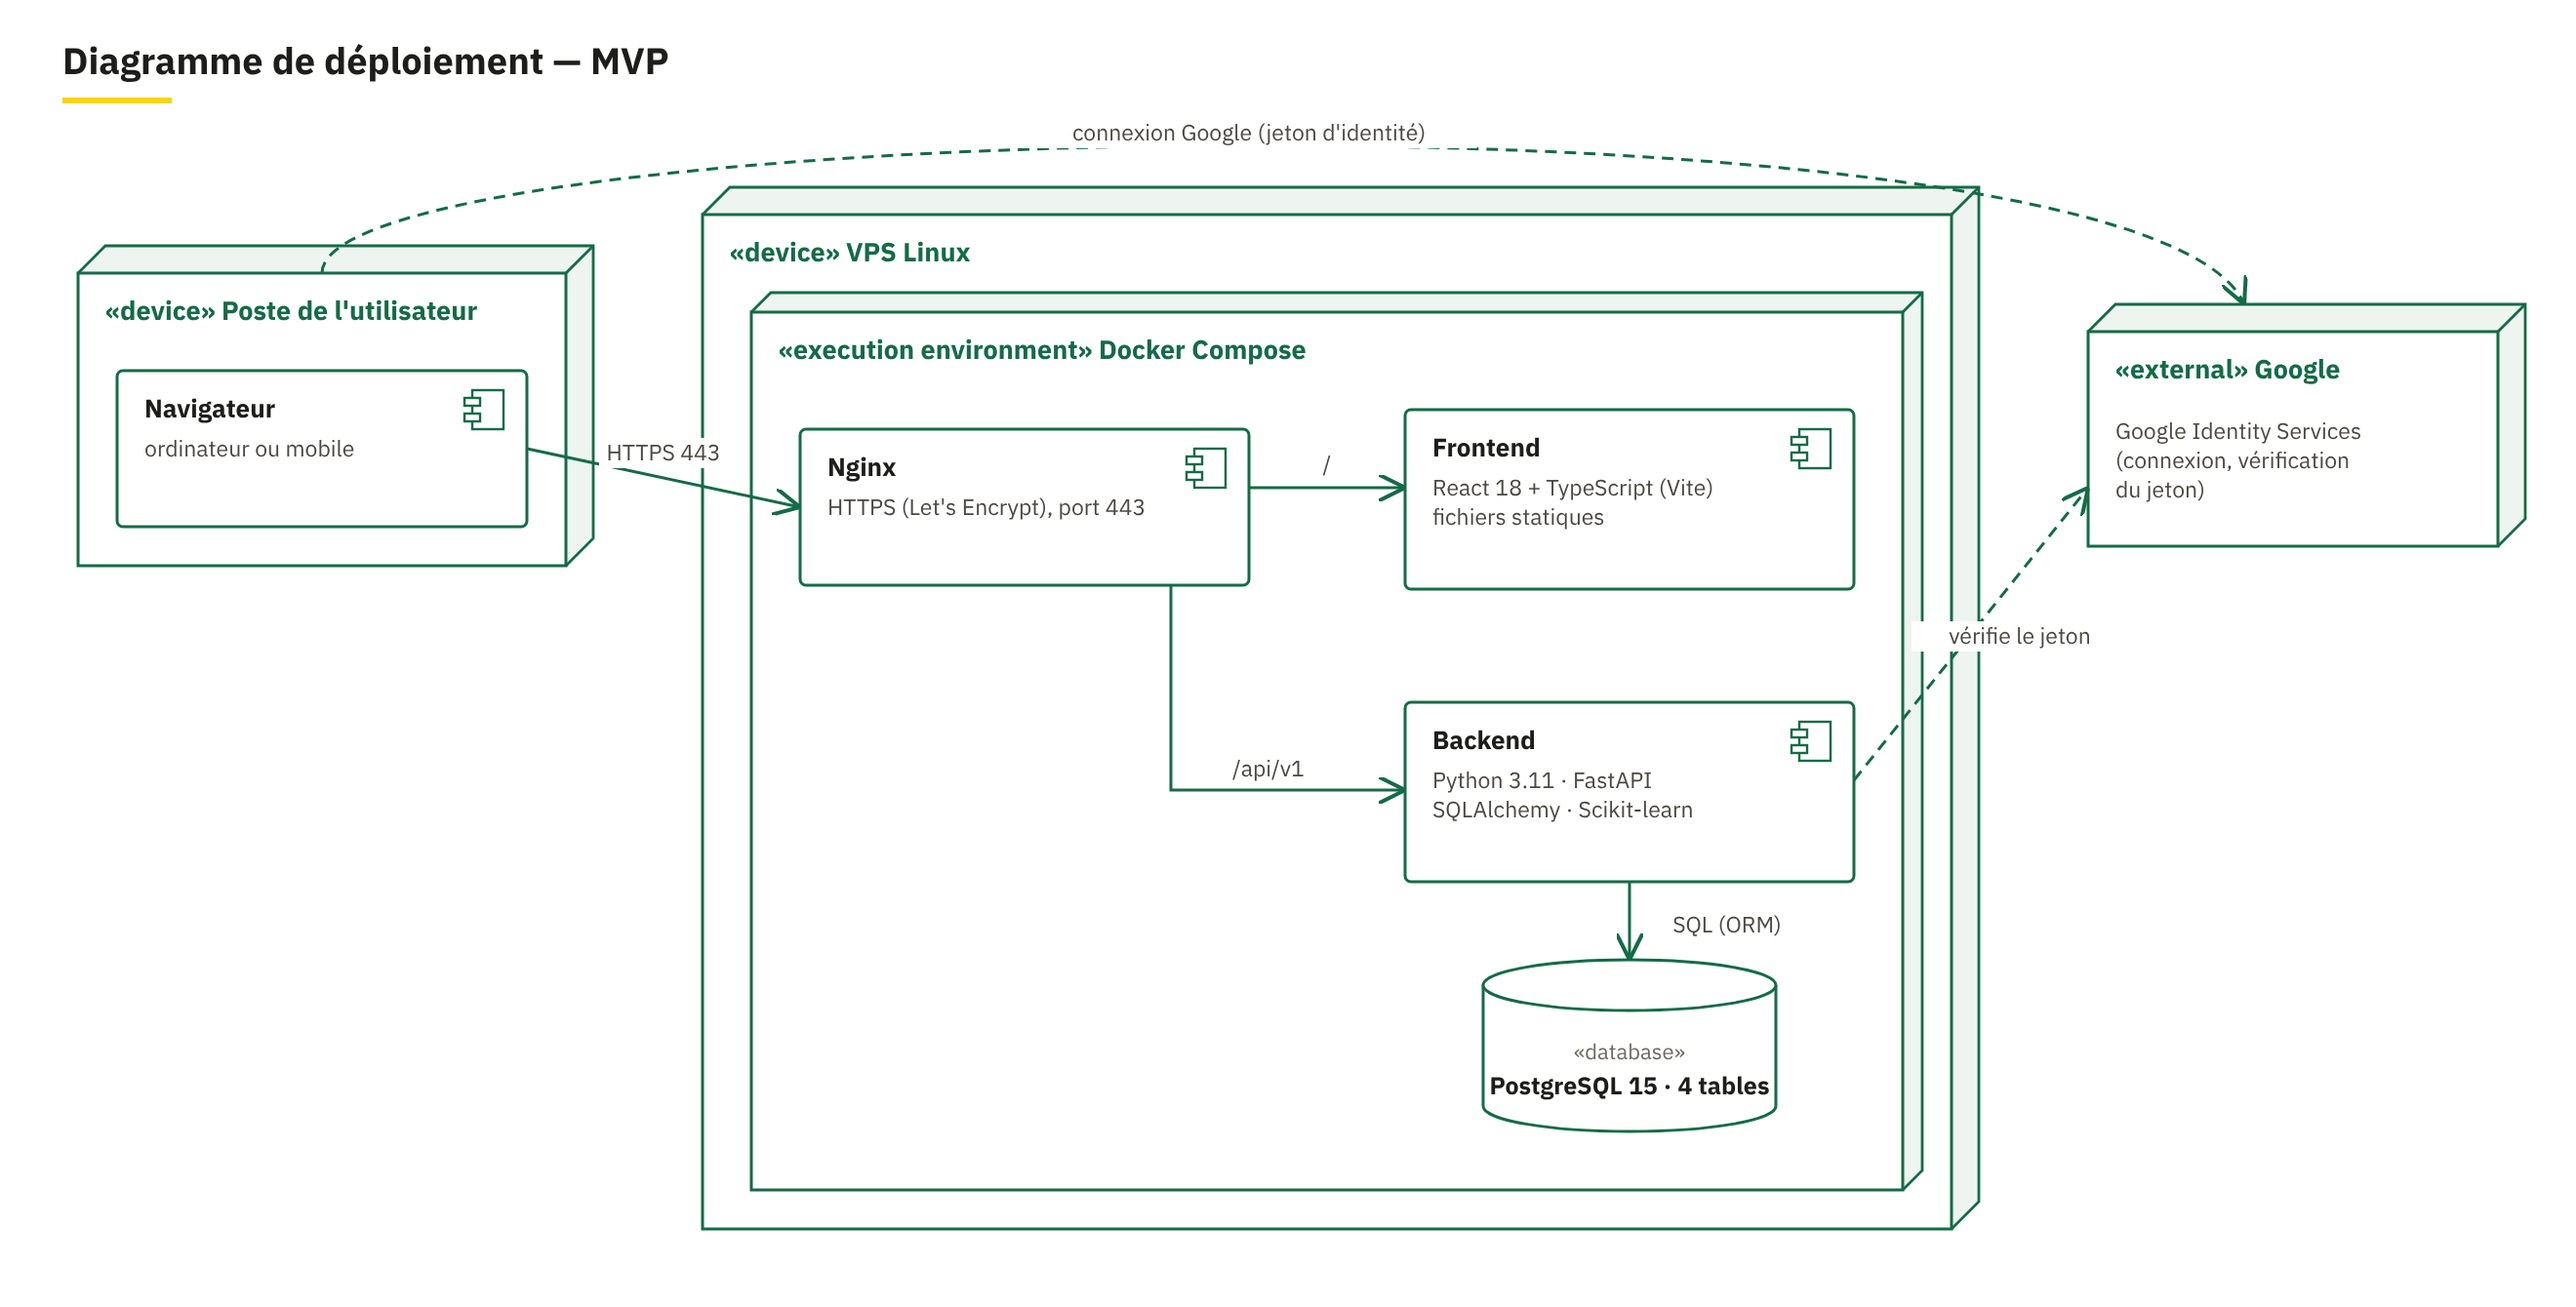
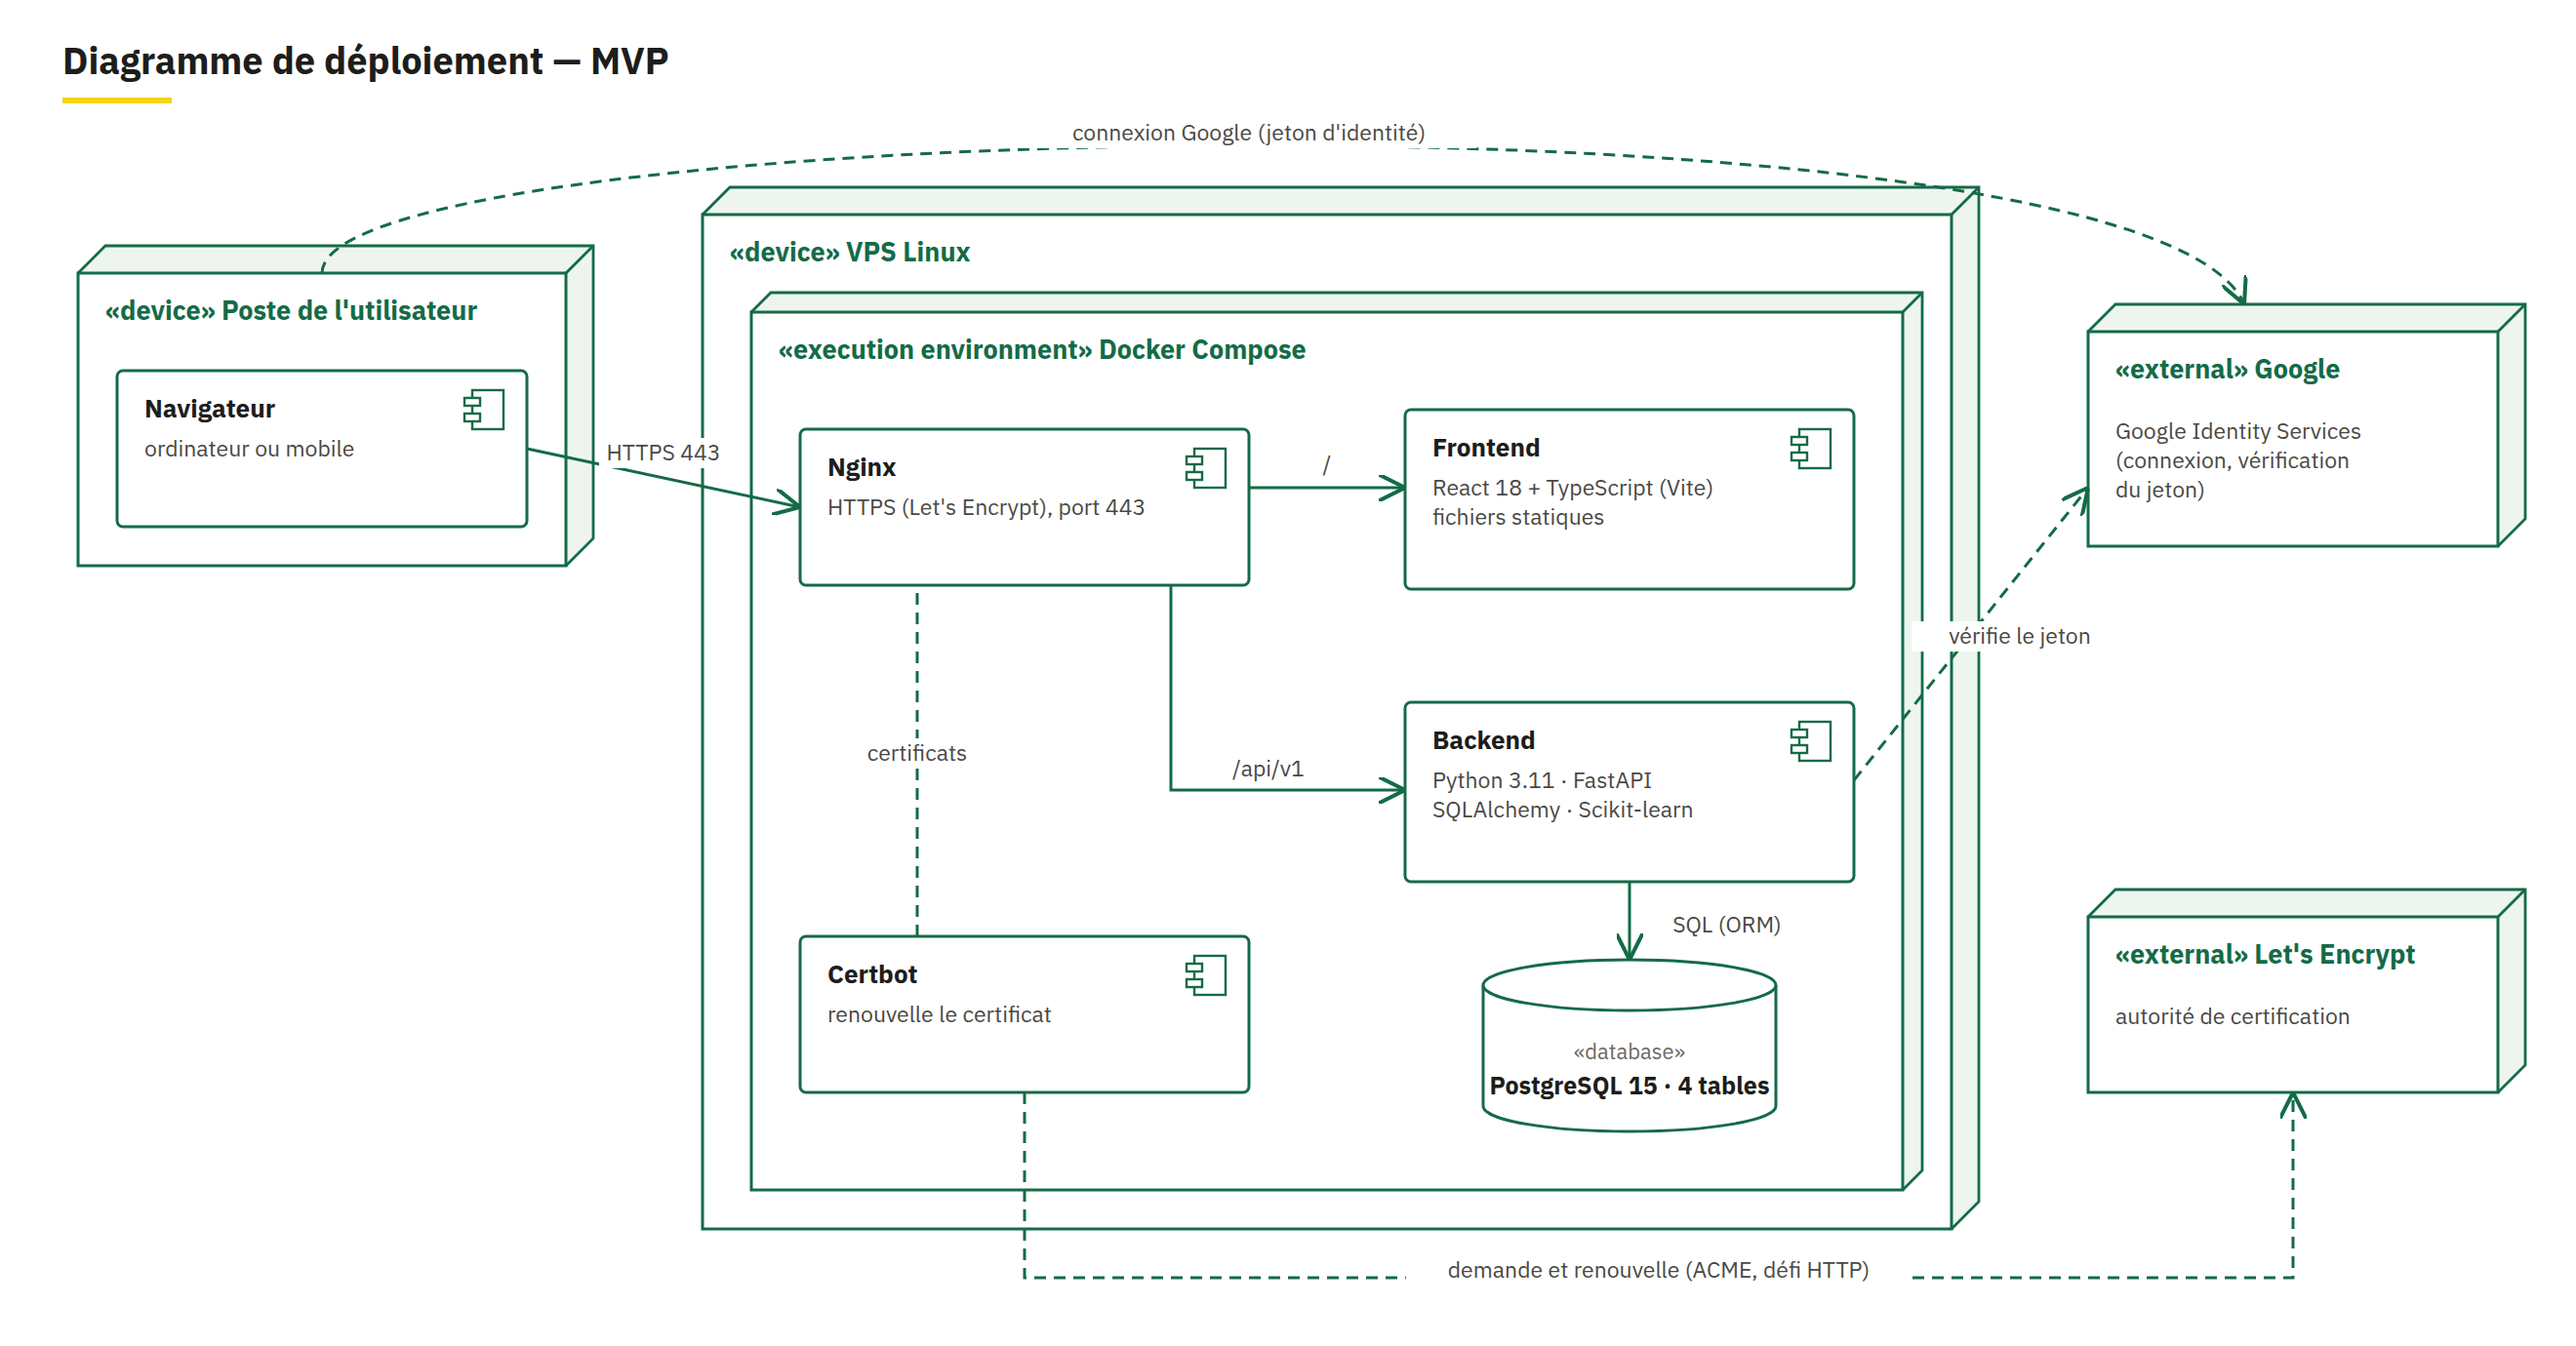
docs(deploiement): procédure de production, répétition locale et diagramme 8 (S7)
docs/deploiement.md : services du profil production, premier certificat,
valeurs de .env, comptes de démo, répétition en local, checklist complétée
(redirection HTTP, comptes de démo, Google). Diagramme de déploiement :
Certbot et Let's Encrypt ajoutés (SVG, PNG, Mermaid, PlantUML).

Refs #27

diff --git a/docs/uml/outils/statiques.py b/docs/uml/outils/statiques.py
@@ -233,6 +233,7 @@ def deploiement():
     b.append(noeud(360, 110, 640, 520, '«device» VPS Linux'))
     b.append(noeud(385, 160, 590, 450, '«execution environment» Docker Compose', 10))
     b.append(composant(410, 220, 230, 80, 'Nginx', 'HTTPS (Let\'s Encrypt), port 443'))
+    b.append(composant(410, 480, 230, 80, 'Certbot', 'renouvelle le certificat'))
     b.append(composant(720, 210, 230, 92, 'Frontend', 'React 18 + TypeScript (Vite)\nfichiers statiques'))
     b.append(composant(720, 360, 230, 92, 'Backend', 'Python 3.11 · FastAPI\nSQLAlchemy · Scikit-learn'))
     x, y = 835, 505
@@ -240,14 +241,18 @@ def deploiement():
     b.append(text(x, y + 38, '«database»', 11, 400, 'middle', C['muted'])); b.append(text(x, y + 56, 'PostgreSQL 15 · 4 tables', 12.5, 700, 'middle'))
     b.append(noeud(1070, 170, 210, 110, '«external» Google'))
     b.append(text(1084, 225, 'Google Identity Services\n(connexion, vérification\ndu jeton)', 11.5, 400, 'start', C['ink2']))
+    b.append(noeud(1070, 470, 210, 90, '«external» Let\'s Encrypt'))
+    b.append(text(1084, 525, 'autorité de certification', 11.5, 400, 'start', C['ink2']))
     b.append(line([(270, 230), (410, 260)], end='ouvert')); b.append(label_on(340, 236, 'HTTPS 443', 11.5))
     b.append(line([(640, 250), (720, 250)], end='ouvert')); b.append(label_on(680, 242, '/', 11.5))
     b.append(line([(600, 300), (600, 405), (720, 405)], end='ouvert')); b.append(label_on(650, 398, '/api/v1', 11.5))
     b.append(line([(835, 452), (835, 492)], end='ouvert')); b.append(label_on(885, 478, 'SQL (ORM)', 11.5))
     b.append(line([(950, 400), (1070, 250)], dash='6 4', end='ouvert')); b.append(label_on(1035, 330, 'vérifie le jeton', 11.5))
+    b.append(line([(470, 480), (470, 300)], dash='6 4')); b.append(label_on(470, 390, 'certificats', 11.5))
+    b.append(line([(525, 560), (525, 655), (1175, 655), (1175, 560)], dash='6 4', end='ouvert')); b.append(label_on(850, 655, 'demande et renouvelle (ACME, défi HTTP)', 11.5))
     b.append(f'<path d="M165,140 C165,60 1100,40 1150,156" fill="none" stroke="{C["green"]}" stroke-width="1.5" stroke-dasharray="6 4" marker-end="url(#ouvert)"/>')
     b.append(label_on(640, 72, 'connexion Google (jeton d\'identité)', 11.5))
-    save('08-deploiement', doc(1320, 670, 'Diagramme de déploiement — MVP', ''.join(b)))
+    save('08-deploiement', doc(1320, 690, 'Diagramme de déploiement — MVP', ''.join(b)))
 
 
 cas_utilisation(); classes(); activite(); etats(); deploiement()

diff --git a/docs/deploiement.md b/docs/deploiement.md
@@ -2,11 +2,22 @@
 
 Cible : **un VPS Linux** avec Docker Compose, Nginx en frontal et certificat **Let's Encrypt**. Pas de CI/CD dans le MVP (déploiement manuel).
 
+En production, cinq services tournent (profil Compose `production`) :
+
+| Service | Rôle | Exposé |
+|---|---|---|
+| `db` | PostgreSQL 15, catalogue chargé au premier démarrage | `127.0.0.1:5432` |
+| `backend` | API FastAPI (uvicorn `--proxy-headers`) | `127.0.0.1:8000` |
+| `frontend` | build React servi par un nginx statique | non |
+| `nginx` | HTTPS, redirection HTTP → HTTPS, `/api/` vers le backend, le reste vers le frontend | **80 et 443** |
+| `certbot` | renouvellement du certificat (essai toutes les 12 h) | non |
+
+`nginx`, `backend` et `frontend` partagent le réseau `production` au sous-réseau fixe (`172.30.89.0/24` par défaut) : nginx y a l'adresse `172.30.89.10`, la seule dont l'API accepte l'en-tête `X-Forwarded-For` (`FORWARDED_ALLOW_IPS`, fixé dans `docker-compose.yml`). La limite d'appels de l'aperçu (RF-12) s'applique donc à l'adresse réelle du visiteur, même s'il envoie un `X-Forwarded-For` falsifié.
+
 ## Prérequis
 
-- VPS (Ubuntu 22.04+ recommandé, 2 Go de RAM suffisent)
-- Nom de domaine pointant vers l'IP du VPS (enregistrement A)
-- Docker + plugin Docker Compose
+- VPS (Ubuntu 22.04+ recommandé, 2 Go de RAM suffisent) avec Docker et le plugin Docker Compose
+- Nom de domaine pointant vers l'IP du VPS (enregistrement A), **avant** de demander le certificat
 - Ports 80 et 443 ouverts
 
 ## Étapes
@@ -16,22 +27,61 @@ Cible : **un VPS Linux** avec Docker Compose, Nginx en frontal et certificat **L
 git clone https://github.com/martial-300/plateforme-formations-hitt.git
 cd plateforme-formations-hitt
 
-# 2. Configurer
+# 2. Configurer : copier puis remplir .env (voir le tableau ci-dessous)
 cp .env.example .env
-nano .env    # mots de passe forts, JWT_SECRET aléatoire, DOMAINE, ADMIN_*
+nano .env
 # Générer un secret : openssl rand -hex 32
 
-# 3. Lancer
-docker compose up -d --build
-# db (5432) et backend (8000) ne sont publiés que sur 127.0.0.1 : seul nginx expose 80 et 443.
+# 3. Premier démarrage et certificat HTTPS (accepte les conditions de Let's Encrypt)
+./deploy/premier-certificat.sh --staging   # facultatif : essai avec un certificat de test
+./deploy/premier-certificat.sh
 
-# 4. Certificat HTTPS (première fois)
-sudo apt install certbot
-sudo certbot certonly --webroot -w ./deploy/certbot -d <votre-domaine>
-docker compose restart nginx
+# 4. Comptes apprenants de démonstration (mot de passe : DEMO_MOT_DE_PASSE)
+docker compose exec backend python -m app.outils.comptes_demo
 ```
 
-La configuration Nginx de référence est dans [`deploy/nginx.conf`](../deploy/nginx.conf).
+`premier-certificat.sh` pose un certificat provisoire auto-signé (nginx refuse de démarrer sans certificat), démarre toute la pile, demande le vrai certificat par le défi HTTP de Let's Encrypt, recharge nginx puis lance `certbot` pour les renouvellements. Relancé alors qu'un certificat existe, il se contente de `docker compose --profile production up -d --build`. Après `--staging`, supprimer le certificat de test avant la demande réelle : `docker compose --profile production run --rm --entrypoint sh certbot -c "rm -rf /etc/letsencrypt/live/<domaine> /etc/letsencrypt/archive/<domaine> /etc/letsencrypt/renewal/<domaine>.conf"`.
+
+Mise à jour du code ensuite :
+
+```bash
+git pull
+docker compose --profile production up -d --build
+```
+
+### Valeurs de `.env` en production
+
+| Variable | Valeur |
+|---|---|
+| `POSTGRES_PASSWORD`, `JWT_SECRET` | secrets aléatoires (`openssl rand -hex 32`) |
+| `CORS_ORIGINS` | `https://<domaine>` |
+| `ADMIN_EMAIL`, `ADMIN_PASSWORD` | compte administrateur créé au démarrage |
+| `VITE_API_URL` | `/api/v1` (même domaine que le site ; intégré au build) |
+| `GOOGLE_CLIENT_ID`, `VITE_GOOGLE_CLIENT_ID` | identifiant OAuth ; ajouter `https://<domaine>` aux **origines JavaScript autorisées** du client dans Google Cloud Console |
+| `DOMAINE` | domaine du site (remplace `${DOMAINE}` dans `deploy/nginx.conf`) |
+| `CERTBOT_EMAIL` | adresse des avis d'expiration de Let's Encrypt |
+| `DEMO_MOT_DE_PASSE` | mot de passe commun des comptes de démo |
+| `RESEAU_PRODUCTION`, `NGINX_IP` | seulement si `172.30.89.0/24` est déjà pris sur le serveur |
+
+### Comptes de démonstration
+
+`app/outils/comptes_demo.py` crée deux apprenants fictifs, questionnaire rempli et recommandations calculées, en passant par l'API (mêmes contrôles qu'un vrai apprenant) : `afi.kossi@hitt.demo` (développement web, à la carte) et `kodjo.mensah@hitt.demo` (secrétariat, parcours modulaire). Le script est relançable ; il ne crée pas l'administrateur, qui vient de `ADMIN_*`.
+
+## Répétition en local
+
+Pour tester la pile de production sans VPS, dans une **copie** du dépôt (pour ne pas toucher à la base de développement) :
+
+```bash
+git worktree add --detach ../hitt-repetition
+cd ../hitt-repetition
+cp ../plateforme-formations-hitt/.env.example .env   # puis valeurs de test, DOMAINE=localhost,
+# CORS_ORIGINS=https://localhost:8443, VITE_API_URL=/api/v1, HTTP_PORT=8080, HTTPS_PORT=8443,
+# RESEAU_PRODUCTION=172.30.90.0/24, NGINX_IP=172.30.90.10
+./deploy/premier-certificat.sh --auto-signe            # https://localhost:8443 (avertissement normal)
+docker compose --profile production down -v            # à la fin : supprime les volumes de la copie
+```
+
+Si la base de développement tourne déjà, ajouter dans la copie un `docker-compose.override.yml` qui retire les ports publiés de `db` et `backend` (`ports: !reset []`).
 
 ## Chargement du catalogue
 
@@ -40,10 +90,10 @@ Au **premier** démarrage (volume PostgreSQL vide), l'image PostgreSQL exécute 
 1. `01_schema.sql` — 4 tables
 2. `02_catalogue_hitt.sql` — 86 formations
 
-Pour recharger depuis zéro (⚠ efface toutes les données) :
+Pour recharger depuis zéro (⚠ efface toutes les données, comptes compris) :
 
 ```bash
-docker compose down -v && docker compose up -d
+docker compose --profile production down -v && ./deploy/premier-certificat.sh
 ```
 
 ## Sauvegarde manuelle
@@ -56,8 +106,10 @@ docker compose exec db pg_dump -U hitt hitt > sauvegarde_$(date +%F).sql
 
 ## Vérifications avant la soutenance
 
-- [ ] `https://<domaine>` répond, certificat valide
+- [ ] `https://<domaine>` répond, certificat valide ; `http://<domaine>` redirige vers HTTPS
 - [ ] `https://<domaine>/api/v1/formations` renvoie 86 formations
 - [ ] Connexion admin OK, chiffres clés affichés
+- [ ] Comptes de démo créés, leurs recommandations affichées
+- [ ] Connexion avec Google OK (domaine dans les origines autorisées)
 - [ ] Parcours apprenant complet sans erreur
 - [ ] Temps de réponse des recommandations < 3 s

diff --git a/.claude/rules/deploiement.md b/.claude/rules/deploiement.md
@@ -10,11 +10,11 @@ paths:
 # Déploiement
 
 - Cible : un VPS, Docker Compose, Nginx en frontal, Let's Encrypt. Pas de CI/CD dans le MVP.
-- Services : `db` (postgres:15-alpine, healthcheck), `backend` (`backend/Dockerfile`, python:3.11-slim, utilisateur non root, uvicorn `--proxy-headers`), `frontend` (`frontend/Dockerfile` multi-étapes, servi par `frontend/nginx.conf` avec repli SPA), `nginx` (production, encore commenté).
+- Services : `db` (postgres:15-alpine, healthcheck), `backend` (`backend/Dockerfile`, python:3.11-slim, utilisateur non root, uvicorn `--proxy-headers`), `frontend` (`frontend/Dockerfile` multi-étapes, servi par `frontend/nginx.conf` avec repli SPA), `nginx` et `certbot` (profil `production`, premier certificat par `deploy/premier-certificat.sh`).
 - `db` (5432) et `backend` (8000) sont publiés sur `127.0.0.1` uniquement : en production, seul nginx expose 80 et 443. Ne jamais publier un port sur toutes les interfaces.
-- `FORWARDED_ALLOW_IPS` liste les proxys de confiance (sous-réseaux Docker) ; jamais `*`. Les noms doivent correspondre à `deploy/nginx.conf` (`backend:8000`, `frontend:80`).
+- `FORWARDED_ALLOW_IPS` est fixé dans `docker-compose.yml` à l'adresse de nginx sur le réseau `production` (`NGINX_IP`) ; jamais `*`. Les noms doivent correspondre à `deploy/nginx.conf` (`backend:8000`, `frontend:80`).
 - `VITE_API_URL` et `VITE_GOOGLE_CLIENT_ID` sont intégrés au build du frontend : les passer en `args` de build, pas en variables d'exécution. Le serveur statique renvoie `index.html` pour les routes React.
-- En production : `CORS_ORIGINS` = domaine HTTPS, domaine déclaré dans les origines autorisées du client OAuth Google, `exemple.com` remplacé dans `nginx.conf`.
+- En production : `CORS_ORIGINS` = domaine HTTPS, domaine déclaré dans les origines autorisées du client OAuth Google, `DOMAINE` renseigné (remplace `${DOMAINE}` dans `deploy/nginx.conf`).
 - Ne jamais lancer sans accord explicite une commande destructrice : `docker compose down -v`, suppression de volume, `certbot` en production, commandes sur le VPS.
 - Toute variable lue par le code figure dans `.env.example`, avec une valeur d'exemple et un commentaire.
 - Avant une démo (S3, S5, S7) ou la soutenance : agent `verificateur-deploiement`.

diff --git a/docs/uml.md b/docs/uml.md
@@ -351,7 +351,9 @@ flowchart LR
         NGX[Nginx<br/>HTTPS Let's Encrypt] -- / --> FE[Frontend React<br/>fichiers statiques]
         NGX -- /api/v1 --> BE[Backend FastAPI<br/>SQLAlchemy · Scikit-learn]
         BE -- SQL via ORM --> PG[(PostgreSQL 15<br/>4 tables)]
+        CB[Certbot<br/>renouvelle le certificat] -. certificats .-> NGX
     end
+    CB -. ACME, défi HTTP .-> LE[Let's Encrypt]
     NAV -. jeton d'identité .-> GOO[Google Identity Services]
     BE -. vérification du jeton .-> GOO
 ```
